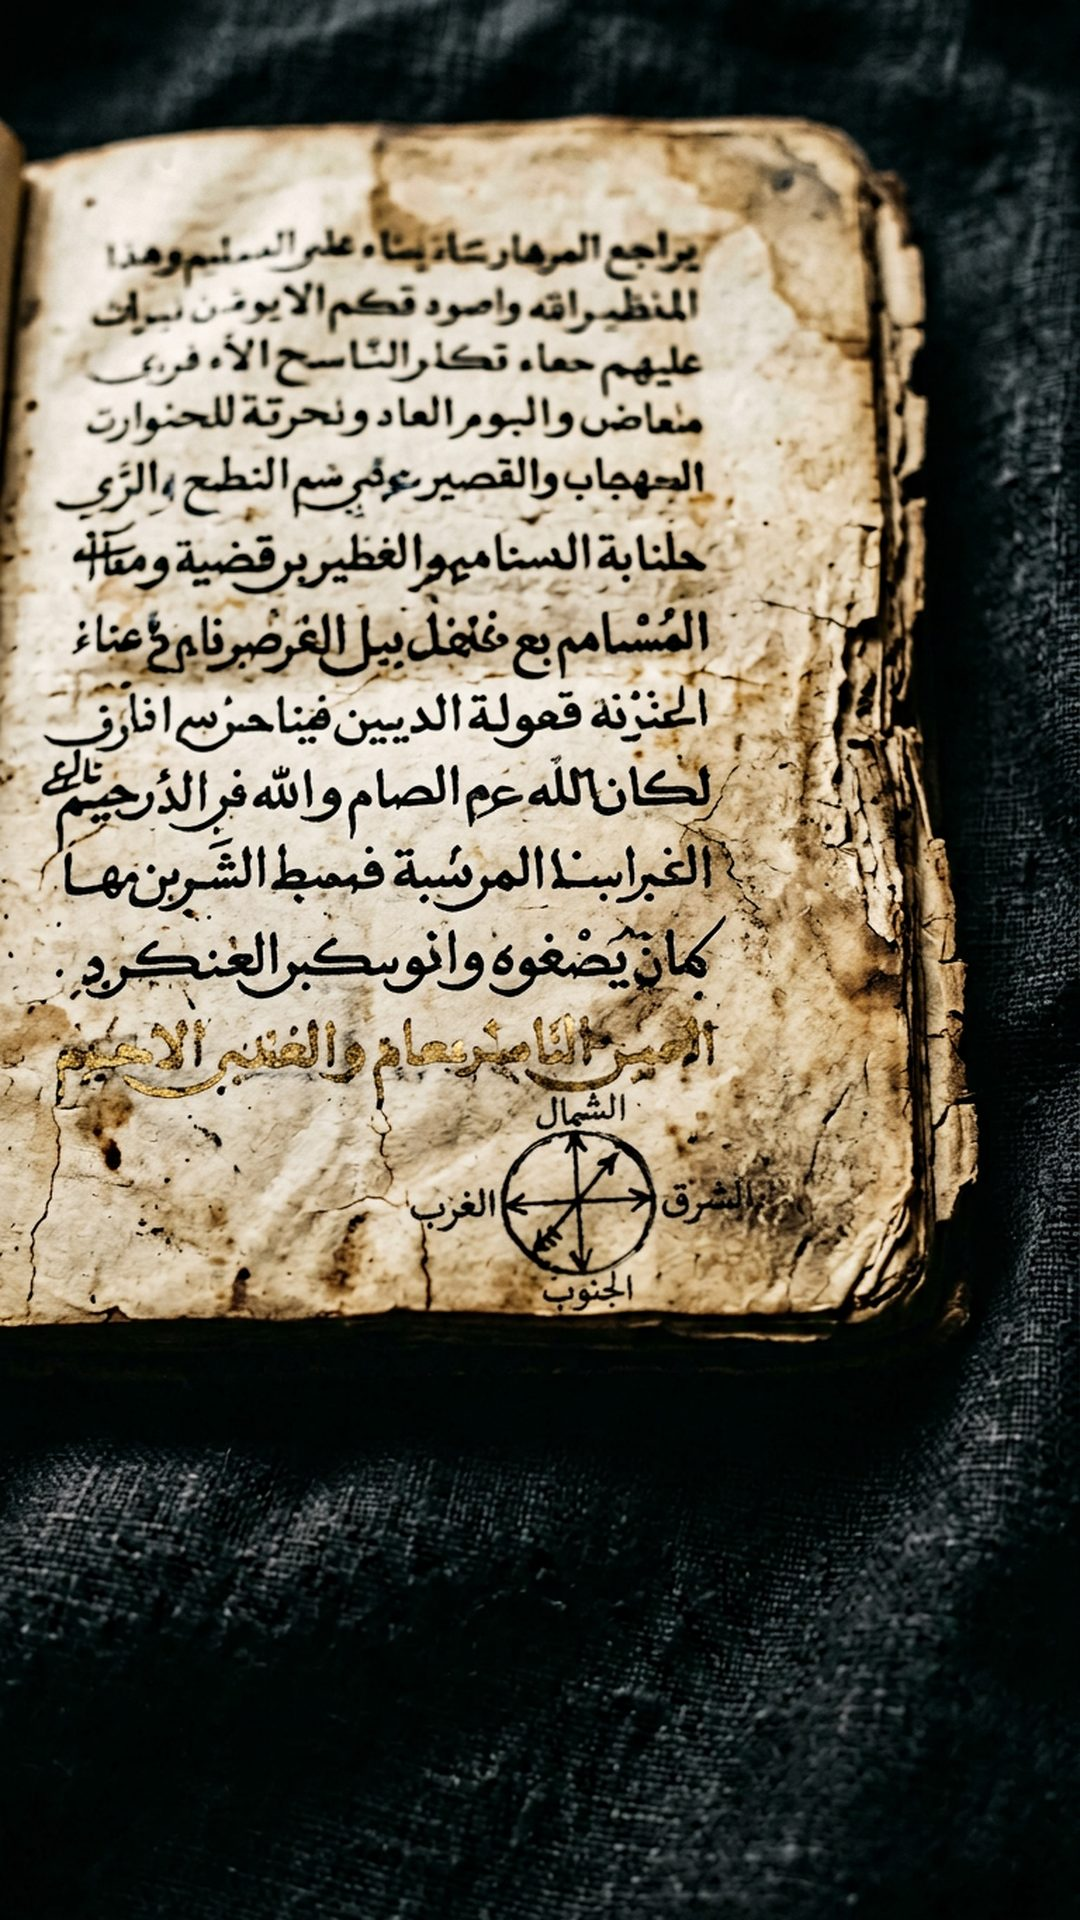
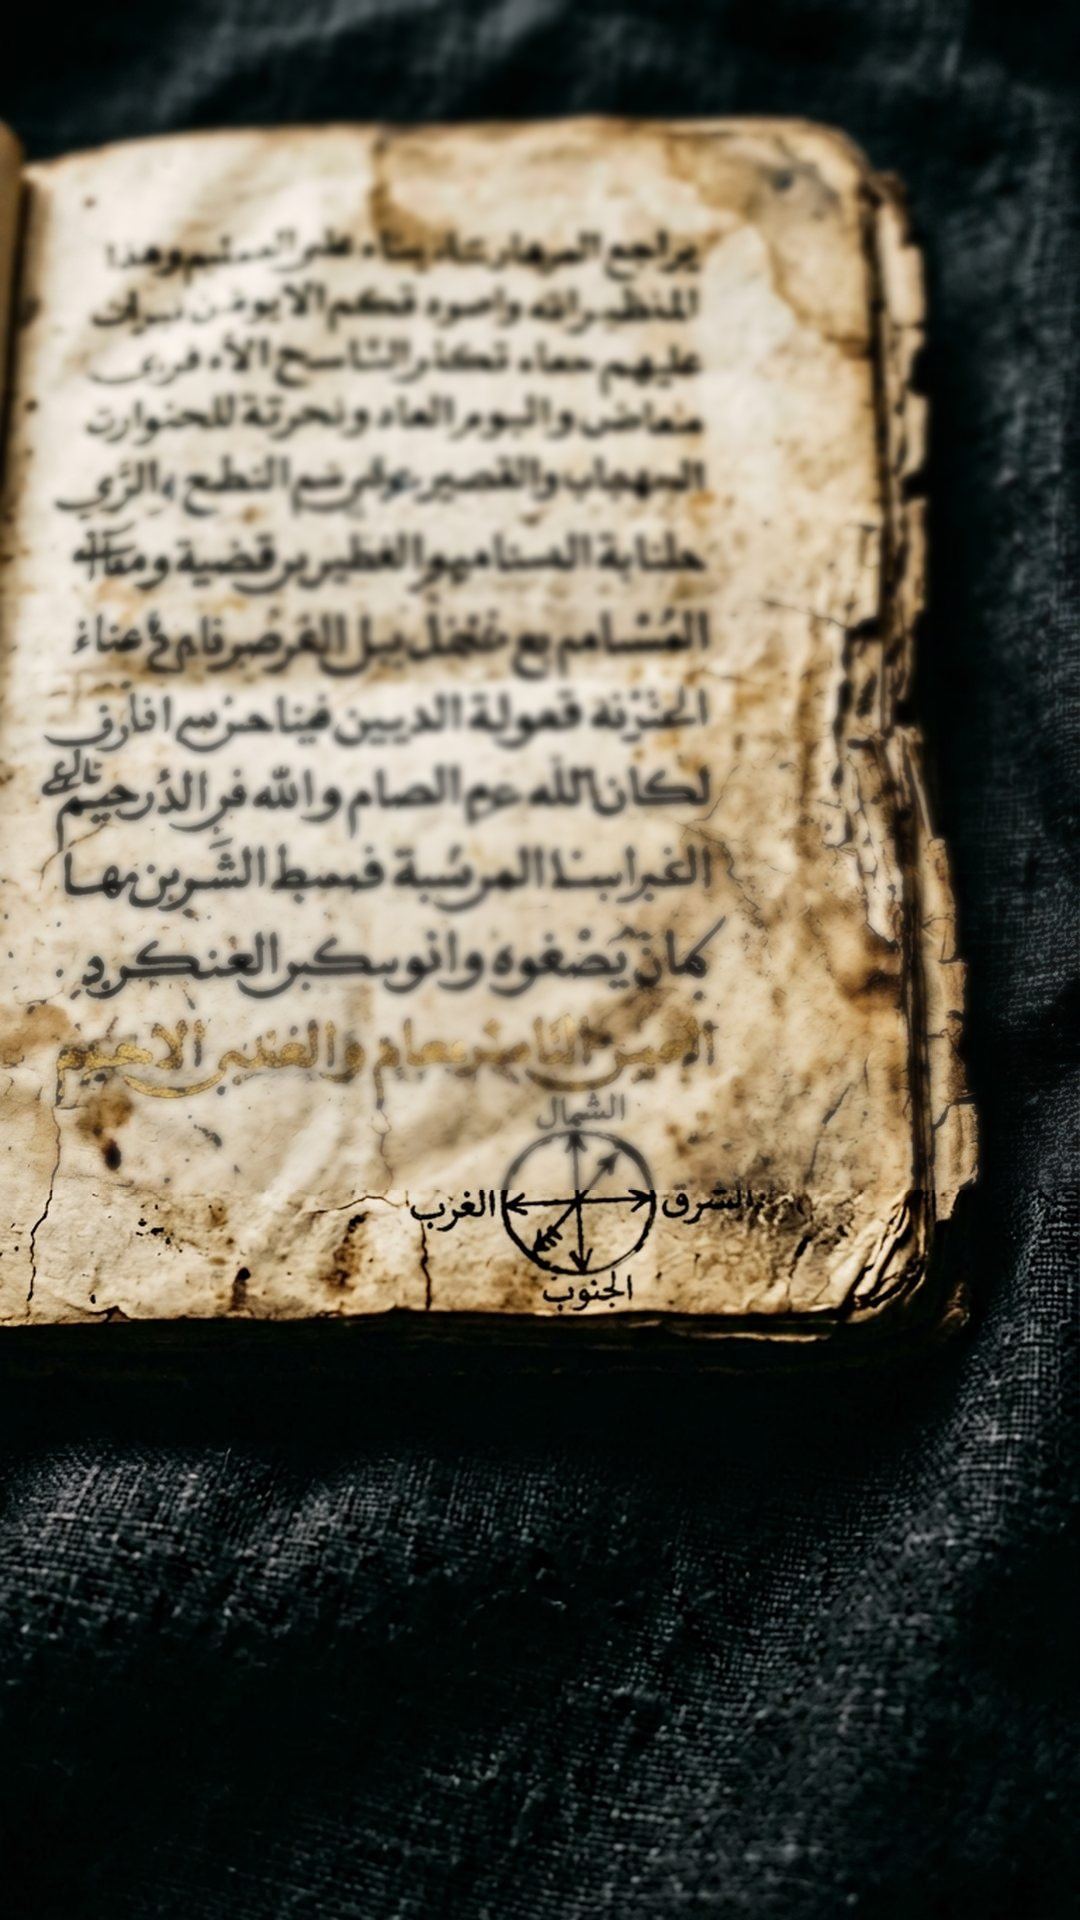
fix(broll): تباين نص فوق الألواح + إزالة تكرار العنوان مع الكابشن

diff --git a/src/components/BrollFrame.tsx b/src/components/BrollFrame.tsx
@@ -35,6 +35,7 @@ export const BrollFrame: React.FC<{
   );
 
   const src = plate ? staticFile(`projects/TMB_001/plates/${plate}`) : null;
+  const s = typeof scrim === "number" ? scrim : 0.34;
 
   return (
     <AbsoluteFill style={{ overflow: "hidden", backgroundColor: color("ink_deep") }}>
@@ -48,9 +49,9 @@ export const BrollFrame: React.FC<{
       <AbsoluteFill
         style={{
           background: `linear-gradient(180deg,
-            rgba(16,15,13,${scrim + 0.18}) 0%,
-            rgba(16,15,13,${scrim * 0.35}) 38%,
-            rgba(16,15,13,${scrim * 0.9}) 100%)`,
+            rgba(16,15,13,${Math.min(0.92, s + 0.30)}) 0%,
+            rgba(16,15,13,${s * 0.30}) 42%,
+            rgba(16,15,13,${s * 0.95}) 100%)`,
         }}
       />
 
@@ -64,7 +65,7 @@ export const BrollFrame: React.FC<{
         }}
       >
         <div style={{ opacity: t.opacity, transform: `translateY(${t.translateY}px)`, textAlign: "center" }}>
-          {kicker ? (
+          {kicker && kicker.trim() ? (
             <div
               style={{
                 fontFamily: bodyFont,
@@ -87,7 +88,9 @@ export const BrollFrame: React.FC<{
               lineHeight: 1.45,
               color: color("parchment"),
               whiteSpace: "pre-line",
-              textShadow: "0 3px 26px rgba(0,0,0,.9)",
+              textShadow: "0 2px 10px rgba(0,0,0,.98), 0 6px 40px rgba(0,0,0,.9)",
+              paintOrder: "stroke",
+              WebkitTextStroke: "0.6px rgba(0,0,0,.55)",
             }}
           >
             {title ?? ""}

diff --git a/src/compositions/Episode.tsx b/src/compositions/Episode.tsx
@@ -38,6 +38,7 @@ const SceneRenderer: React.FC<{ scene: Scene; durFrames: number }> = ({ scene, d
           label={scene.label}
           kicker={scene.kicker}
           plate={scene.plate}
+          scrim={scene.scrim}
           durFrames={durFrames}
         />
       );

diff --git a/src/engine/types.ts b/src/engine/types.ts
@@ -88,6 +88,7 @@ export interface Scene {
   value?: string;
   // broll
   plate?: string;
+  scrim?: number;
 }
 
 export interface CaptionLine {
